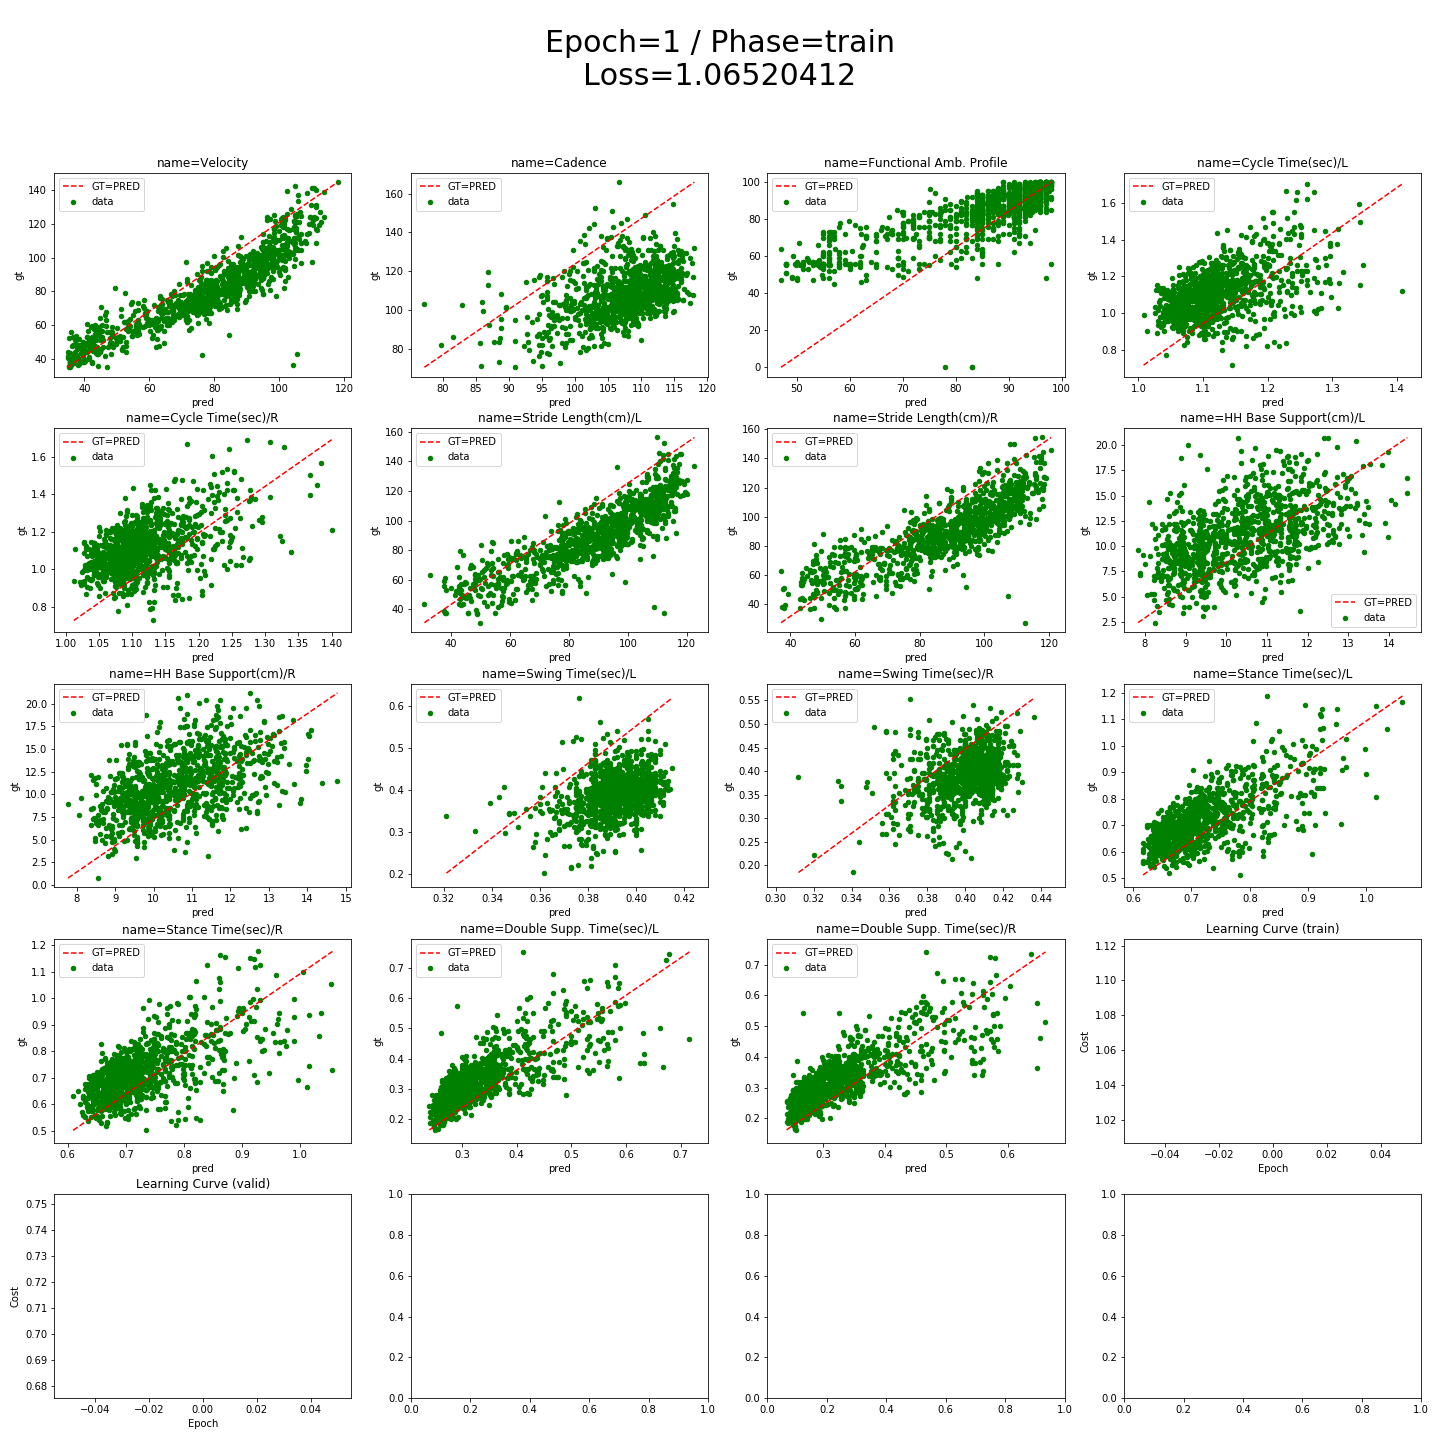
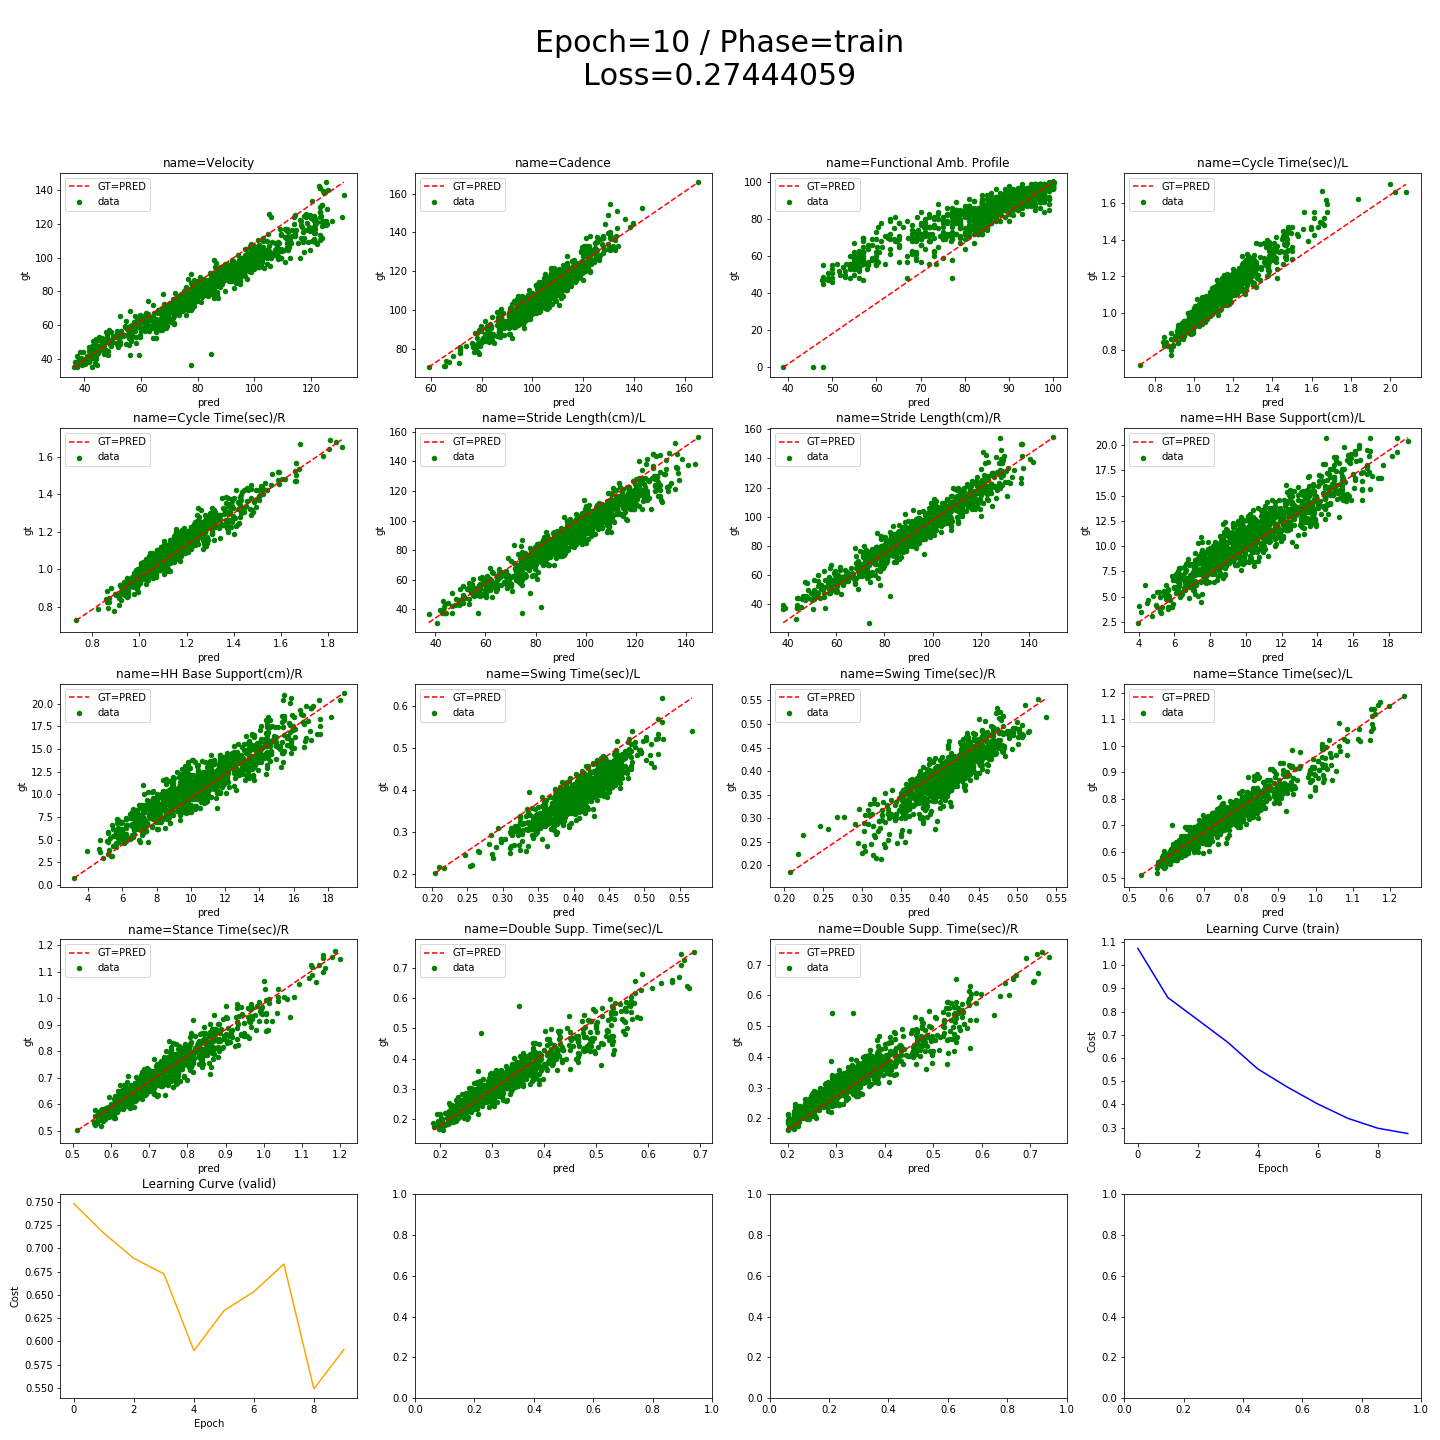
grid search with multi gpu system #2

diff --git a/src/dev/data_utils.py b/src/dev/data_utils.py
@@ -167,7 +167,7 @@ def split_dataset_with_vids(input_df, target_df, vids, test_size=0.2, random_sta
 
 
 
-def report_lerning_process(columns, epoch, phase, y_pred, y_true, loss_history):
+def report_lerning_process(columns, phase, y_pred, y_true):
     
     pred_and_gt = { k:[] for k in columns }
 
@@ -194,11 +194,8 @@ def report_lerning_process(columns, epoch, phase, y_pred, y_true, loss_history):
     df = pd.DataFrame(data)
 
     fig, axes = plt.subplots(nrows=5, ncols=4, figsize=(20,20))
-    fig.suptitle("Epoch={} / Phase={}\nLoss={:.8f}".format(epoch,
-                                                           phase,
-                                                           loss_history[phase][-1]),
-                                                           fontsize=30)
-    
+    fig.suptitle("Phase={}".format(phase, fontsize=30))
+
     axes = axes.flatten()
     
     for i,col in enumerate(columns):
@@ -211,21 +208,13 @@ def report_lerning_process(columns, epoch, phase, y_pred, y_true, loss_history):
         ax = axes[i]
         ax.plot([min(preds), max(preds)], [min(gts), max(gts)], 'r--', label='GT=PRED')
         ax.legend()
-                    
-    ax1, ax2 = axes[len(columns):][:2] # last two axes : plot learning curve (train/test)
-
-    for ax,name,color in zip([ax1, ax2], ['train','valid'],['blue','orange']):
-        ax.plot(loss_history[name], color=color)
-        ax.set_title(f'Learning Curve ({name})')
-        ax.set_xlabel('Epoch')
-        ax.set_ylabel('Cost')
     
     fig.tight_layout()
     fig.subplots_adjust(top=0.88)
     
     plt.savefig(f'status_{phase}.png')
     plt.close(fig)
-    
+
 def prepare_dataset(input_file, target_file, feature_extraction_model=None, layer='conv1'):
     # data prepare first !!
     input_df = pd.read_pickle(input_file)

diff --git a/src/dev/params.py b/src/dev/params.py
@@ -1,8 +1,8 @@
 BATCH_SIZE_OF_TFMODEL = 1
-MODEL_PATH = '/media/hossay/hdd1/GaitData/pretrained/C3D/conv3d_deepnetA_sport1m_iter_1900000_TF.model'
+MODEL_PATH = '/data/GaitData/pretrained/C3D/conv3d_deepnetA_sport1m_iter_1900000_TF.model'
 MEAN_FILE = 'train01_16_128_171_mean.npy'
-FRAME_HOME = "/media/hossay/hdd1/GaitData/CroppedFrameArrays"
-FEATS_SAVE_DIR = "/media/hossay/hdd1/GaitData/EncodedFeatures"
+FRAME_HOME = "/data/GaitData/CroppedFrameArrays"
+FEATS_SAVE_DIR = "/data/GaitData/EncodedFeatures"
 FRAMES_PER_CLIP = 16
 FRAME_MAXLEN=300
 FEATS_MAXLEN=20

diff --git a/src/dev/models.py b/src/dev/models.py
@@ -36,7 +36,6 @@ import tensorflow as tf
 
 import c3d_wrapper
 from data_utils import *
-from models import *
 from params import *
 
 
